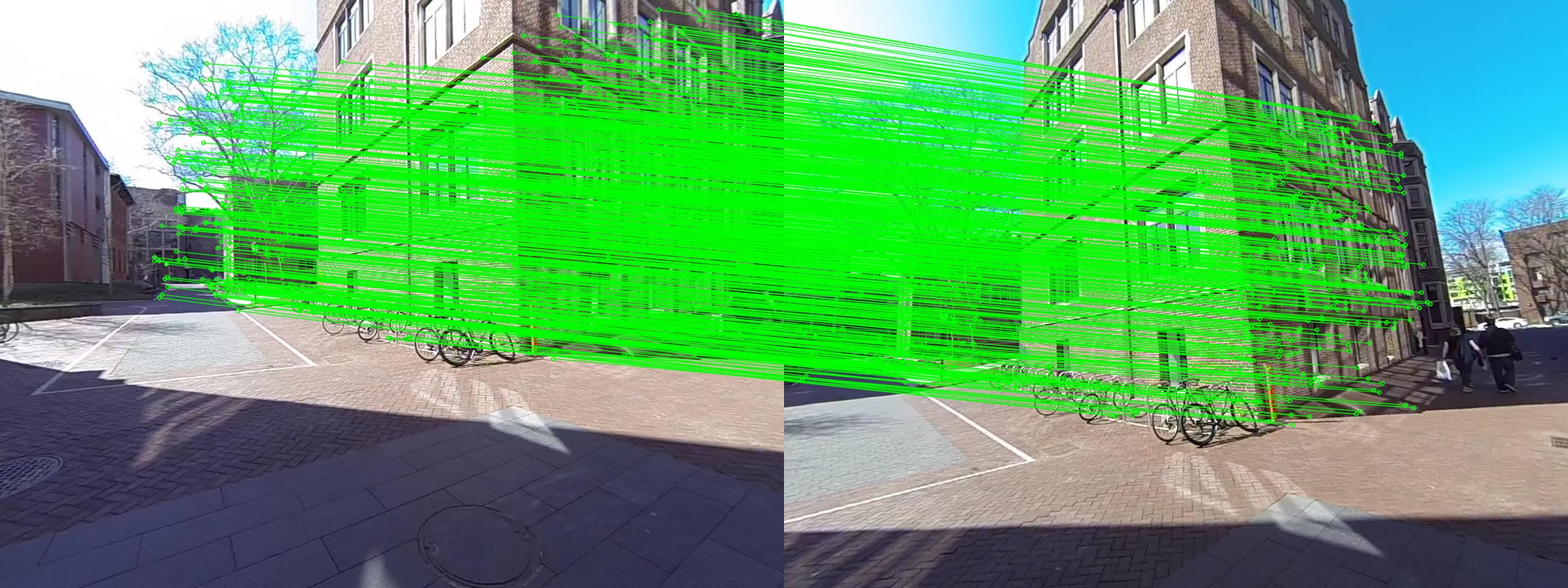
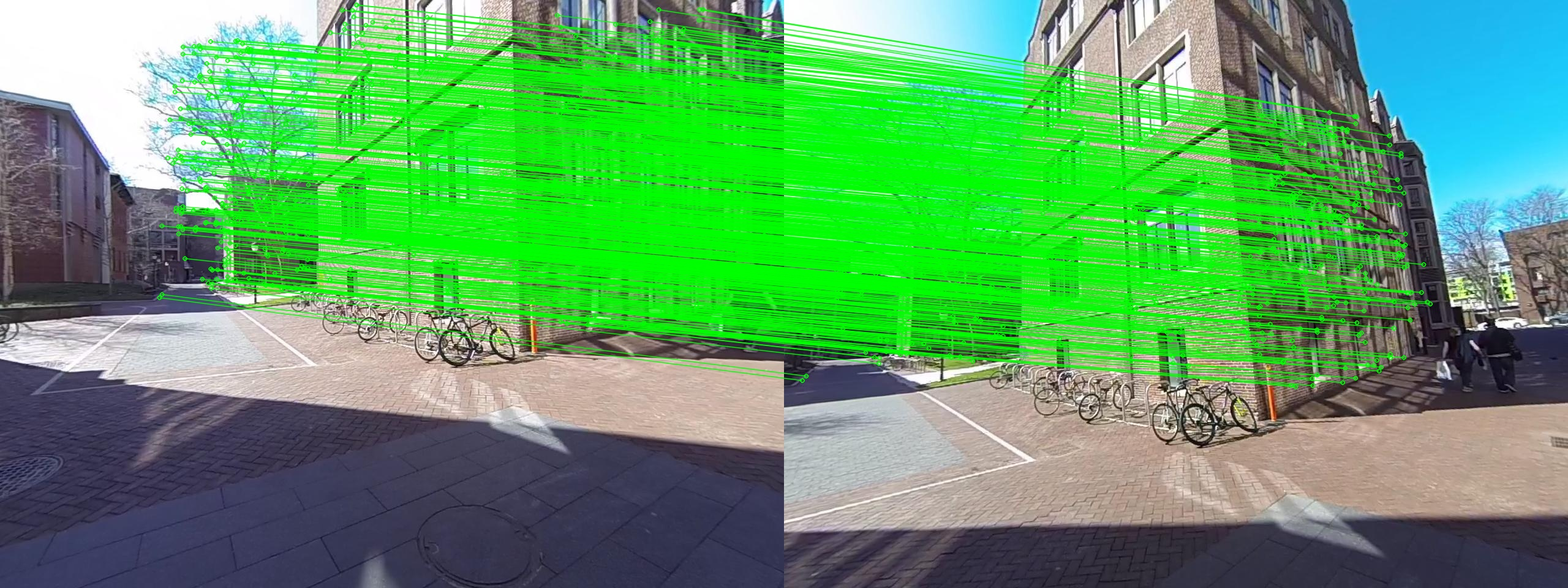
till nonlinearpnp

diff --git a/rama.chaganti_p3-part1/p3-part1/Code/Wrapper.py b/rama.chaganti_p3-part1/p3-part1/Code/Wrapper.py
@@ -85,9 +85,6 @@ ParseKeypoints_DF = ParseKeypoints(file_path, source_camera_index, target_camera
 source_keypoints = ParseKeypoints_DF[[0, 2, 3]]
 target_keypoints = ParseKeypoints_DF[[0, 5, 6]]
 
-# print(f'\nSource Keypoints: "  {source_keypoints[2]}')
-
-# print(f'\nSource Keypoints: "  {target_keypoints[6]}')
 source_all_points = source_keypoints[[2, 3]].to_numpy()
 target_all_points = target_keypoints[[5, 6]].to_numpy()
 ################################################################################
@@ -110,15 +107,7 @@ target_inlier_points = target_inliers.to_numpy()
 print(bcolors.OKCYAN + "\nFundamental Matrix F:" + bcolors.OKCYAN)
 print(F, '\n')
 
-
-# #################################################################################
-# # You will write another function 'EstimateFundamentalMatrix' that computes F matrix
-# # This function is being called by the 'GetInliersRANSAC' function
-# #################################################################################
-
-# # Visualize the final feature correspondences after computing the correct Fundamental Matrix.
-# # Write a code to print the final feature matches and compare them with the original ones.
-
+# Visualize the final feature correspondences after computing the correct Fundamental Matrix.
 output_path = '../Output/'
 DrawMatches('../Data/Imgs/', source_camera_index, target_camera_index, source_all_points, target_all_points, source_inlier_points, target_inlier_points, output_path)
 
@@ -155,105 +144,61 @@ Cset, Rset = ExtractCameraPose(E)
 Xset = []
 # Iterate over each camera pose in Cset and Rset
 for i in range(4):
-    # Perform linear triangulation to estimate the 3D points given:
-    # - K: Intrinsic camera matrix
-    # - np.zeros((3,1)): The initial camera center (assumes origin for the first camera)
-    # - np.eye(3): The initial camera rotation (identity matrix, assuming no rotation for the first camera)
-    # - Cset[i]: Camera center for the i-th pose
-    # - Rset[i]: Rotation matrix for the i-th pose
-    # - source_inliers: Inlier points in the source image
-    # - target_inliers: Corresponding inlier points in the target image
+    # Perform linear triangulation to estimate the 3D points
     Xset_i = LinearTriangulation(K, np.zeros((3,1)), np.eye(3), Cset[i], Rset[i], source_inliers, target_inliers)
     Xset.append(Xset_i)
 
 ################################################################################
 ## Step 7: Plot all points and camera poses
-# Write a function: PlotPtsCams that visualizes the 3D points and the estimated camera poses.
 ################################################################################
 
-# Arguments:
-# - Cset: List of camera centers for each pose.
-# - Rset: List of rotation matrices for each pose.
-# - Xset: List of triangulated 3D points corresponding to each camera pose.
-# - SAVE_DIR: Output directory to save the plot.
-# - FourCameraPose.png: Filename for the output plot showing 3D points and camera poses.
 PlotCameraPts(Cset, Rset, Xset, output_path, "FourCameraPose.png")
-
 
 ################################################################################
 ## Step 8: Disambiguate Camera Pose
-# Write a function: DisambiguateCameraPose
-# DisambiguateCameraPose is called to identify the correct camera pose from multiple
-# hypothesized poses. It selects the pose with the most inliers in front of both 
-# cameras (i.e., the pose with the most consistent triangulated 3D points).
 ################################################################################
 
-## Disambiguate camera poses
-# Arguments:
-# - Cset: List of candidate camera centers for each pose.
-# - Rset: List of candidate rotation matrices for each pose.
-# - Xset: List of sets of triangulated 3D points for each camera pose.
-# Returns:
-# - C: The selected camera center after disambiguation.
-# - R: The selected rotation matrix after disambiguation.
-# - X: The triangulated 3D points for the selected camera pose.
-# - selectedIdx: The index of the selected camera pose within the original candidate sets.
 C, R, X, selectedIdx = DisambiguateCameraPose(Cset, Rset, Xset)
 
 # Plot the selected camera pose with its 3D points
-# This plot shows the selected camera center, orientation, and the corresponding 3D points.
-# Arguments:
-# - [C]: List containing the selected camera center (wrapping it in a list for compatibility with PlotPtsCams).
-# - [R]: List containing the selected rotation matrix.
-# - [X]: List containing the 3D points for the selected camera pose.
-# - SAVE_DIR: Output directory to save the plot.
-# - OneCameraPoseWithPoints.png: Filename for the output plot showing both the camera pose and 3D points.
-# - show_pos=True: Enables the display of the camera pose.
 PlotPtsCams([C], [R], [X], output_path, "OneCameraPoseWithPoints.png")
 
 ################################################################################
 ## Step 9: Non-Linear Triangulation
-# Write a function: NonLinearTriangulation
-# Inputs:
-# - K: Intrinsic camera matrix of the first camera (3x3).
-# - C0, R0: Translation (3x1) and rotation (3x3) of the first camera.
-# - Cseti, Rseti: Translations and rotations of other cameras in a list.
-# - x1set, x2set: Sets of 2D points in each image for triangulation.
-# - X0: Initial 3D points for optimization.
-# Output:
-# - Returns optimized 3D points after minimizing reprojection error.
 ################################################################################
 print("\nPerforming Non-Linear Triangulation...")
-# Perform non-linear triangulation to refine the 3D points
 X_refined = NonlinearTriangulation(K, np.zeros((3, 1)), np.eye(3), C, R, source_inliers, target_inliers, X)
 print("\nOptimized 3D Points:")
 print(X_refined)
-PlotPtsCams([C,C], [R,R], [X_refined,X], output_path, "Refined3DPoints_2D.png")
-
+PlotPtsCams([C,C], [R,R], [X,X_refined], output_path, "Refined3DPoints_2D.png")
+xset=target_inliers[['x','y']].to_numpy()
 # ################################################################################
-# # Step 10: PnPRANSAC
-# # PnPRANSAC: Function to perform PnP using RANSAC to find the best camera pose 
-# # with inliers
+# # Step 10: PnP RANSAC
 # ################################################################################
 
-# ################################################################################
-# # Step 11: NonLinearPnP
-# # NonLinearPnP: Refines the camera pose (position and orientation) using non-linear 
-# # optimization to minimize the reprojection error between observed 2D points and 
-# # projected 3D points.
-# ################################################################################
+print("\nPerforming PnP RANSAC...")
+Cnew, Rnew, best_inliers_X, best_inliers_x=PnPRANSAC(X_refined, xset, K, M=2000, T=10)
+PlotPtsCams([Cnew], [Rnew], [best_inliers_X], output_path, "RefinedCameraProjection_2D.png")
+################################################################################
+# Step 11: NonLinearPnP
+# NonLinearPnP: Refines the camera pose (position and orientation) using non-linear 
+# optimization to minimize the reprojection error between observed 2D points and 
+# projected 3D points.
+################################################################################
+print("\nPerforming Non-Linear PnP...")
+Copt, Ropt = NonlinearPnP(best_inliers_X, best_inliers_x, K, Cnew, Rnew)
+
+################################################################################
+# Step 12: BuildVisibilityMatrix
+# BuildVisibilityMatrix: BuildVisibilityMatrix: Constructs a sparse visibility 
+# matrix for bundle adjustment. This matrix indicates which parameters affect 
+# each observation in the optimization process.
+################################################################################
 
 
-# ################################################################################
-# # Step 12: BuildVisibilityMatrix
-# # BuildVisibilityMatrix: BuildVisibilityMatrix: Constructs a sparse visibility 
-# # matrix for bundle adjustment. This matrix indicates which parameters affect 
-# # each observation in the optimization process.
-# ################################################################################
-
-# ################################################################################
-# # Step 13: BundleAdjustment
-# # BundleAdjustment: Refines camera poses and 3D point positions to minimize the 
-# # reprojection error for a set of cameras and 3D points using non-linear 
-# # optimization.
-# ################################################################################
+################################################################################
+# Step 13: BundleAdjustment
+# BundleAdjustment: Refines camera poses and 3D point positions to minimize the 
+# reprojection error for a set of cameras and 3D points using non-linear 
+# optimization.
+################################################################################

diff --git a/rama.chaganti_p3-part1/p3-part1/Code/PnPRANSAC.py b/rama.chaganti_p3-part1/p3-part1/Code/PnPRANSAC.py
@@ -17,8 +17,8 @@ def CalReprojErr(X, x, P):
     Returns:
     - e: Reprojection error (scalar).
     """
-    u = x[1]  # x-coordinate in the image
-    v = x[2]  # y-coordinate in the image
+    u = x[0]  # x-coordinate in the image
+    v = x[1]  # y-coordinate in the image
 
     # Convert 3D point X to homogeneous coordinates without ID
     X_noID = np.concatenate((X[1:], np.array([1])), axis=0)
@@ -48,8 +48,8 @@ def LinearPnP(X, x, K):
     Returns:
     - P: Camera projection matrix (3x4).
     """
-    X = X.to_numpy()
-    x = x.to_numpy()
+    # X = X.to_numpy()
+    # x = x.to_numpy()
 
     # Construct the linear system A from the correspondences
     n = X.shape[0]
@@ -57,8 +57,8 @@ def LinearPnP(X, x, K):
     
     for i in range(n):
         X_i = np.concatenate((X[i, 1:], [1]))  # Convert to homogeneous coordinates
-        u = x[i, 1]
-        v = x[i, 2]
+        u = x[i, 0]
+        v = x[i, 1]
         
         # Fill A matrix based on the equations from the lecture
         A[2*i] = np.concatenate([np.zeros(4), -X_i, v*X_i])
@@ -104,8 +104,8 @@ def PnPRANSAC(Xset, xset, K, M=2000, T=10):
         sample_indices = random.sample(range(n_points), 6)
                 
         # Extract subsets of 3D and 2D points
-        X_subset = Xset.iloc[sample_indices]
-        x_subset = xset.iloc[sample_indices]
+        X_subset = Xset[sample_indices]
+        x_subset = xset[sample_indices]
 
         # Estimate projection matrix P using LinearPnP with the selected points
         P = LinearPnP(X_subset, x_subset, K)
@@ -114,8 +114,8 @@ def PnPRANSAC(Xset, xset, K, M=2000, T=10):
         current_inliers = []
         for j in range(n_points):
             # Calculate reprojection error
-            error = CalReprojErr(Xset.iloc[j].values, xset.iloc[j].values, P)
-            
+            error = CalReprojErr(Xset[j], xset[j], K@P)
+            # print(error)
             # If error is below threshold T, consider it as an inlier
             if error < T:
                 current_inliers.append(j)
@@ -133,5 +133,6 @@ def PnPRANSAC(Xset, xset, K, M=2000, T=10):
     # Enforce orthogonality of R
     U, _, Vt = np.linalg.svd(R)
     Rnew = U @ Vt
-    
-    return Cnew, Rnew, best_inliers  # Return the estimated camera center, rotation matrix, and inliers
+    Xnew = Xset[best_inliers]
+    xnew = xset[best_inliers]
+    return Cnew, Rnew, Xnew, xnew  # Return the estimated camera center, rotation matrix, and inliers

diff --git a/rama.chaganti_p3-part1/p3-part1/Code/NonlinearPnP.py b/rama.chaganti_p3-part1/p3-part1/Code/NonlinearPnP.py
@@ -67,11 +67,19 @@ def NonlinearPnP(Xs, xs, K, Cnew, Rnew):
     x0 = np.concatenate([C_init, q_init])  # Combine position and quaternion for optimization
     
     # Prepare the 3D points and 2D points for optimization
-    X_data = Xs.iloc[:, 1:4].values  # Extract [X, Y, Z] coordinates from the 3D points
-    x_data = xs.iloc[:, 1:3].values  # Extract [u, v] coordinates from the 2D points
+    X_data = Xs[:, 1:4]  # Extract [X, Y, Z] coordinates from the 3D points
+    x_data = xs[:, 1:3] # Extract [u, v] coordinates from the 2D points
     
     # Run non-linear optimization to minimize reprojection error
-    result = least_squares(reprojection_loss, x0, args=(X_data, x_data, K), method='lm')
+    # result = least_squares(reprojection_loss, x0, args=(X_data, x_data, K), verbose=2, method='lm')
+    result = least_squares(reprojection_loss, x0, args=(X_data, x_data, K),verbose=2, method='trf',  # Trust-region reflective for handling nonlinearity
+    # bounds=(lb, ub),  # Define parameter bounds
+    loss='soft_l1',  # Robust loss for outliers and nonlinearity
+    ftol=1e-8,
+    xtol=1e-6,
+    gtol=1e-8,
+    max_nfev=5000
+ ) 
     
     # Extract the optimized camera position and rotation matrix from the solution
     Copt = result.x[:3].reshape(3, 1)  # Optimized camera position (3x1)

diff --git a/rama.chaganti_p3-part1/p3-part1/Code/NonlinearTriangulation.py b/rama.chaganti_p3-part1/p3-part1/Code/NonlinearTriangulation.py
@@ -64,7 +64,7 @@ def NonlinearTriangulation(K, C0, R0, Cseti, Rseti, x1set, x2set, X0):
             else:
                 # Concatenate errors for both views
                 #print((x_obs - x_proj).ravel())
-                error = np.concatenate([error, (x_obs - x_proj).ravel()])
+                error = np.concatenate([error, (x_obs - x_proj).ravel()])**2
                 #print(error.shape)
                 # print("error:",error)
         return error
@@ -106,13 +106,14 @@ def NonlinearTriangulation(K, C0, R0, Cseti, Rseti, x1set, x2set, X0):
     # bounds=(lb, ub),  # Define parameter bounds
     loss='soft_l1',  # Robust loss for outliers and nonlinearity
     ftol=1e-8,
-    xtol=1e-8,
+    xtol=1e-6,
     gtol=1e-8,
     max_nfev=5000
  ) # Increase max iterations if needed)
     # Reshape optimized 3D points to Nx3 matrix
     
     X_opt = result.x.reshape(-1, 3)
+    print(reprojection_loss(X_opt, Ps, xsets))
     # print(X_opt)
     # Combine and return optimized 3D points with their corresponding IDs
     return np.column_stack((point_ids, X_opt))

diff --git a/rama.chaganti_p3-part1/p3-part1/Code/EstimateFundamentalMatrix.py b/rama.chaganti_p3-part1/p3-part1/Code/EstimateFundamentalMatrix.py
@@ -24,7 +24,8 @@ def EstimateFundamentalMatrix(x1DF, x2DF):
         centroid = np.mean(points, axis=0)
         centered_points = points - centroid
         mean_dist = np.mean(np.sqrt(np.sum(centered_points**2, axis=1)))
-        scale = np.sqrt(2) / mean_dist
+        # scale = np.sqrt(2) / mean_dist
+        scale = 1/ mean_dist
         T = np.array([
             [scale, 0,  -scale*centroid[0]],
             [0, scale,  -scale*centroid[1]],
@@ -54,10 +55,10 @@ def EstimateFundamentalMatrix(x1DF, x2DF):
     F = np.dot(U, np.dot(np.diag(S), Vt))
 
     # Step 5: Scaling - Ensure the last element of F is 1
-    F = F / F[2, 2]
+    
 
     # Step 6: Denormalize the Fundamental Matrix
     F = np.dot(T2.T, np.dot(F, T1))
-    
+    F = (F / F[2, 2])*100
 
     return F

diff --git a/rama.chaganti_p3-part1/p3-part1/Code/BuildVisibilityMatrix.py b/rama.chaganti_p3-part1/p3-part1/Code/BuildVisibilityMatrix.py
@@ -14,10 +14,10 @@ def GetVmatrix(All_Inlier):
     """
       
     # Extract each component from the array
-    u = All_Inlier.iloc[:, 1].values  # u coordinates
-    v = All_Inlier.iloc[:, 2].values  # v coordinates
-    point_ids = All_Inlier.iloc[:, 0].values  # Point IDs
-    camera_ids = All_Inlier.iloc[:, 3].values  # Camera IDs
+    u = All_Inlier[:, 1]  # u coordinates
+    v = All_Inlier[:, 2]  # v coordinates
+    point_ids = All_Inlier[:, 0]  # Point IDs
+    camera_ids = All_Inlier[:, 3]  # Camera IDs
 
     # Concatenate u, v, PointID, and CameraID into a single matrix
     Vmatrix = np.column_stack((u, v, point_ids, camera_ids))

diff --git a/rama.chaganti_p3-part1/p3-part1/Code/GetInliersRANSAC.py b/rama.chaganti_p3-part1/p3-part1/Code/GetInliersRANSAC.py
@@ -4,7 +4,7 @@ import random
 from tqdm import tqdm
 from EstimateFundamentalMatrix import EstimateFundamentalMatrix
 
-def GetInliersRANSAC(x1All, x2All, M=3000, T=0.05):
+def GetInliersRANSAC(x1All, x2All, M=1500, T=0.5):
     """
     Estimates the Fundamental matrix using RANSAC and identifies inlier matches
     between two sets of points, rejecting outliers.
